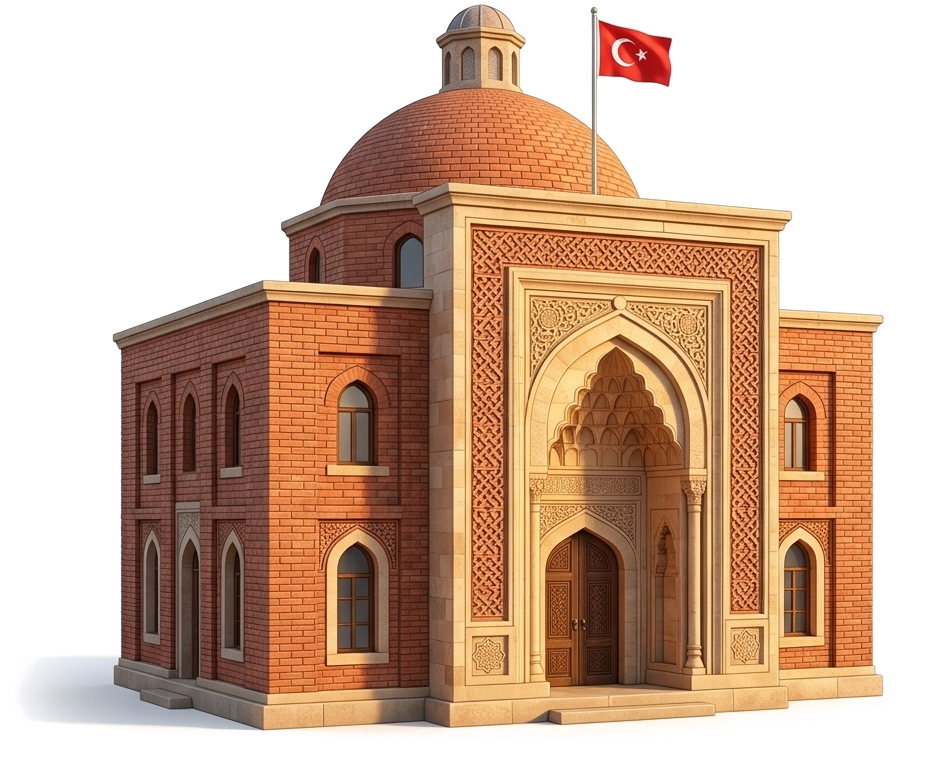
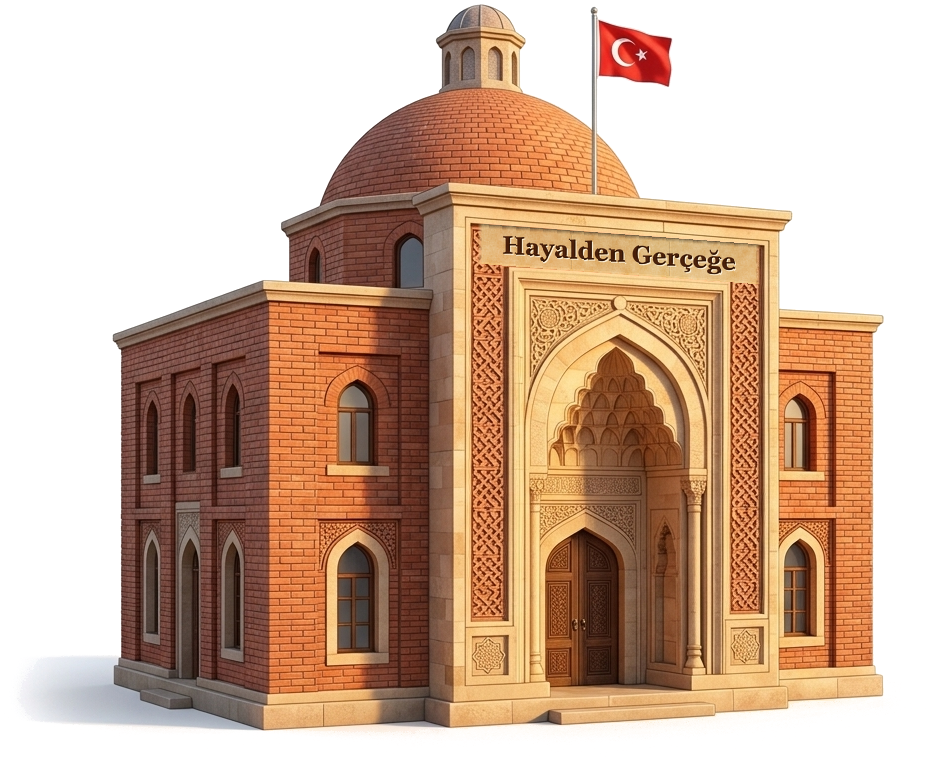
feat(walkable): integrate inscribed discovery building asset and remove canvas text layer

Changed region(s): [[0.4989, 0.272, 0.8419, 0.3929]]

diff --git a/src/features/walkable/engine/courtyardSceneRenderer.ts b/src/features/walkable/engine/courtyardSceneRenderer.ts
@@ -1404,9 +1404,6 @@ function drawDiscoveryBuilding(
     ctx.stroke();
     ctx.restore();
 
-    // 4. Doğrudan Mimari Duvar Yazısı (Çini / Taş Yüzey)
-    drawDirectWallInscription(ctx, portalCenterX, y + 20, CAMPUS_ARCHITECTURAL_INSCRIPTIONS.discovery, 'glazed-tile');
-
     ctx.restore();
     return;
   }
@@ -1463,9 +1460,6 @@ function drawDiscoveryBuilding(
   ctx.beginPath();
   ctx.roundRect(portalX, portalY, portalW, portalH, [16, 16, 0, 0]);
   ctx.fill();
-
-  // Doğrudan Mimari Duvar Yazısı (Çini / Taş Yüzey)
-  drawDirectWallInscription(ctx, x + w / 2, y + 48, CAMPUS_ARCHITECTURAL_INSCRIPTIONS.discovery, 'glazed-tile');
 
   ctx.restore();
 }
